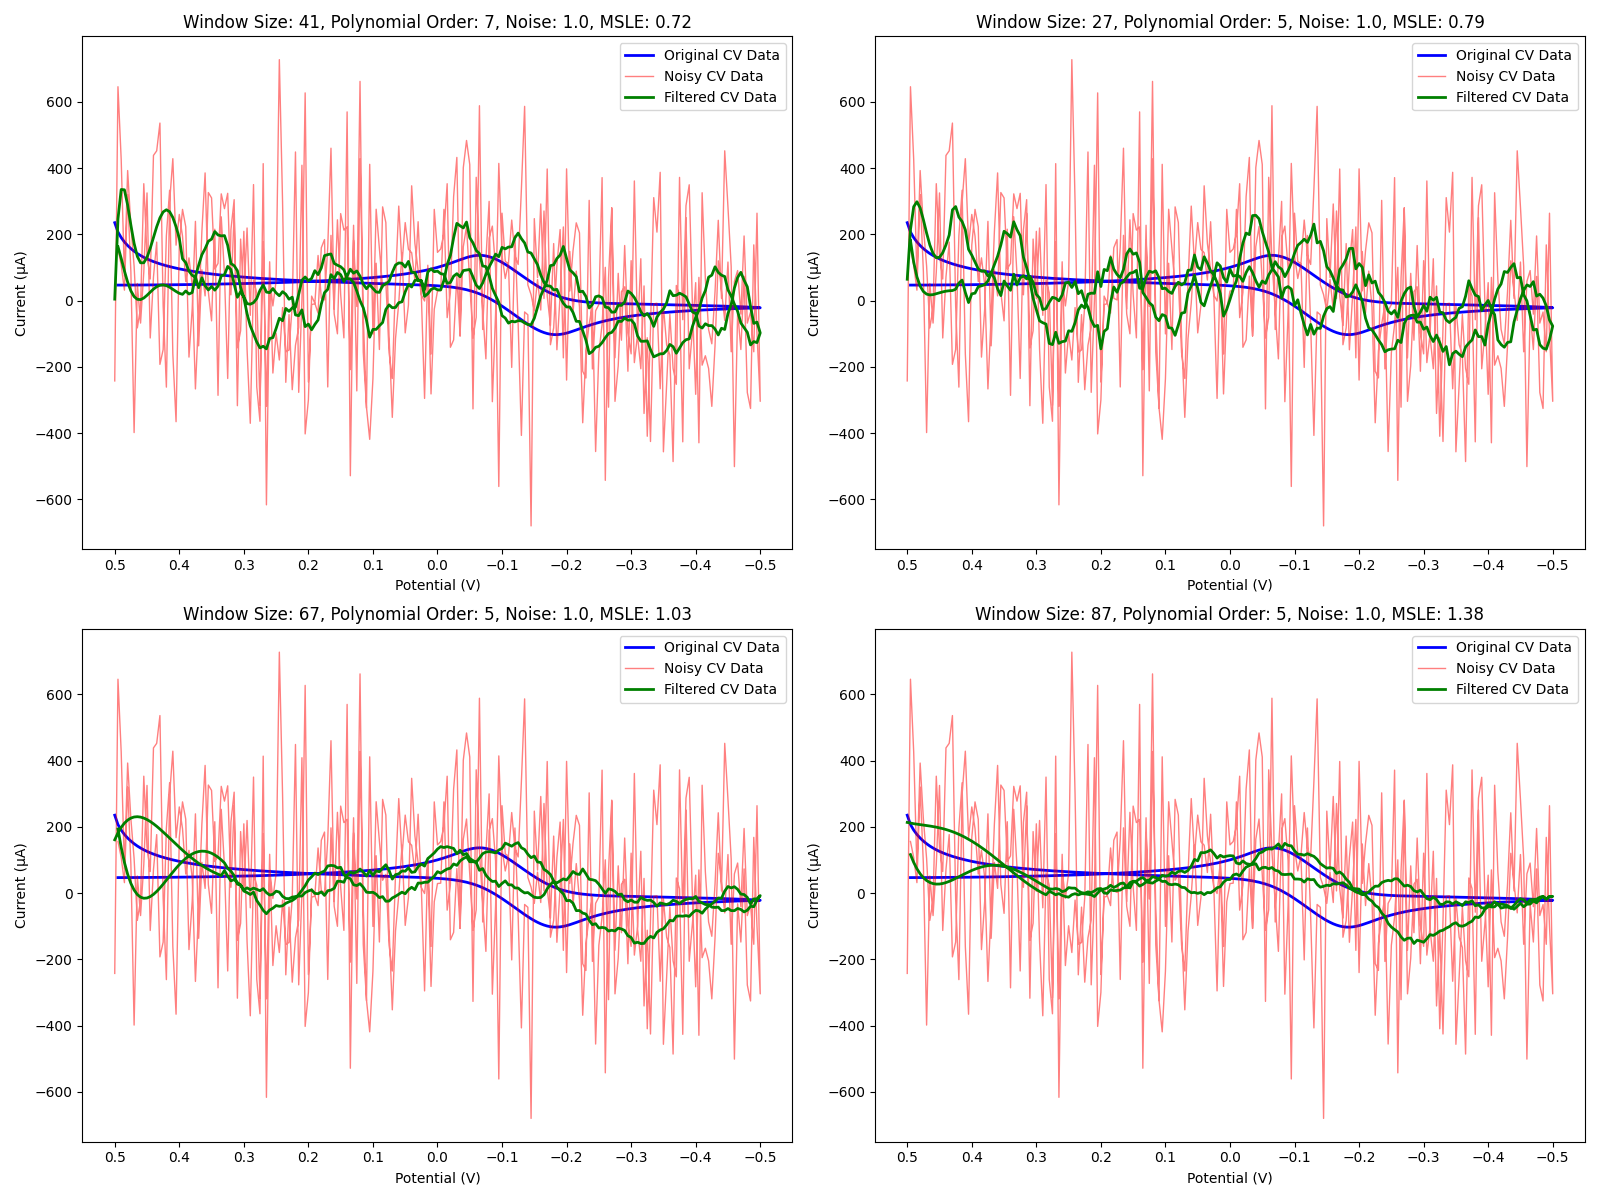
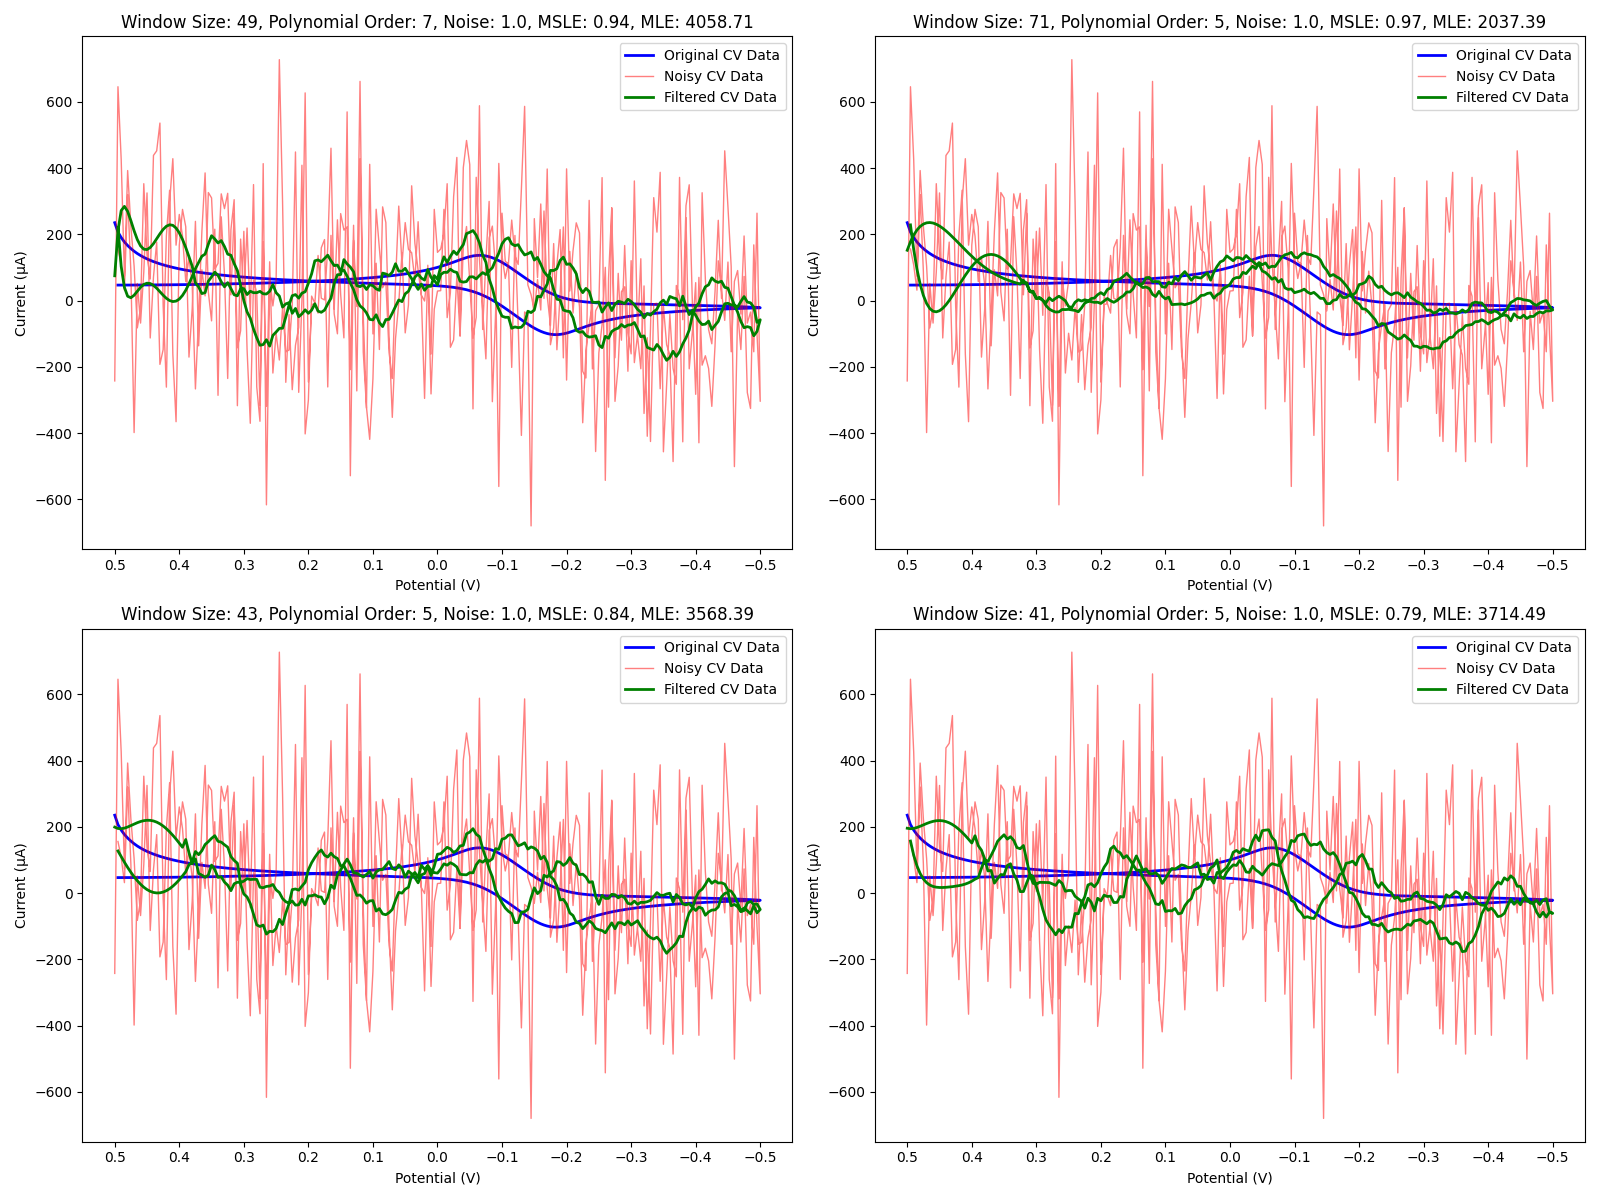
Print MSE results on Scrip02 plots as well

diff --git a/Script02-CV-Signal-SavGolFilter-WithHyperOpt.py b/Script02-CV-Signal-SavGolFilter-WithHyperOpt.py
@@ -114,7 +114,7 @@ for noise in noise_levels:
         axs[i].plot(E, I, label='Original CV Data', color='blue', linewidth=2)
         axs[i].plot(E, I_noisy, label='Noisy CV Data', color='red', linewidth=1, alpha=0.5)
         axs[i].plot(E, I_restored, label='Filtered CV Data', color='green', linewidth=2)
-        axs[i].set_title(f"Window Size: {window_length}, Polynomial Order: {poly_order}, Noise: {noise}, MSLE: {msle:.2f}")
+        axs[i].set_title(f"Window Size: {window_length}, Polynomial Order: {poly_order}, Noise: {noise}, MSLE: {msle:.2f}, MLE: {mse:.2f}")
         axs[i].set_xlabel('Potential (V)')
         axs[i].set_ylabel('Current (µA)')
         axs[i].legend()
